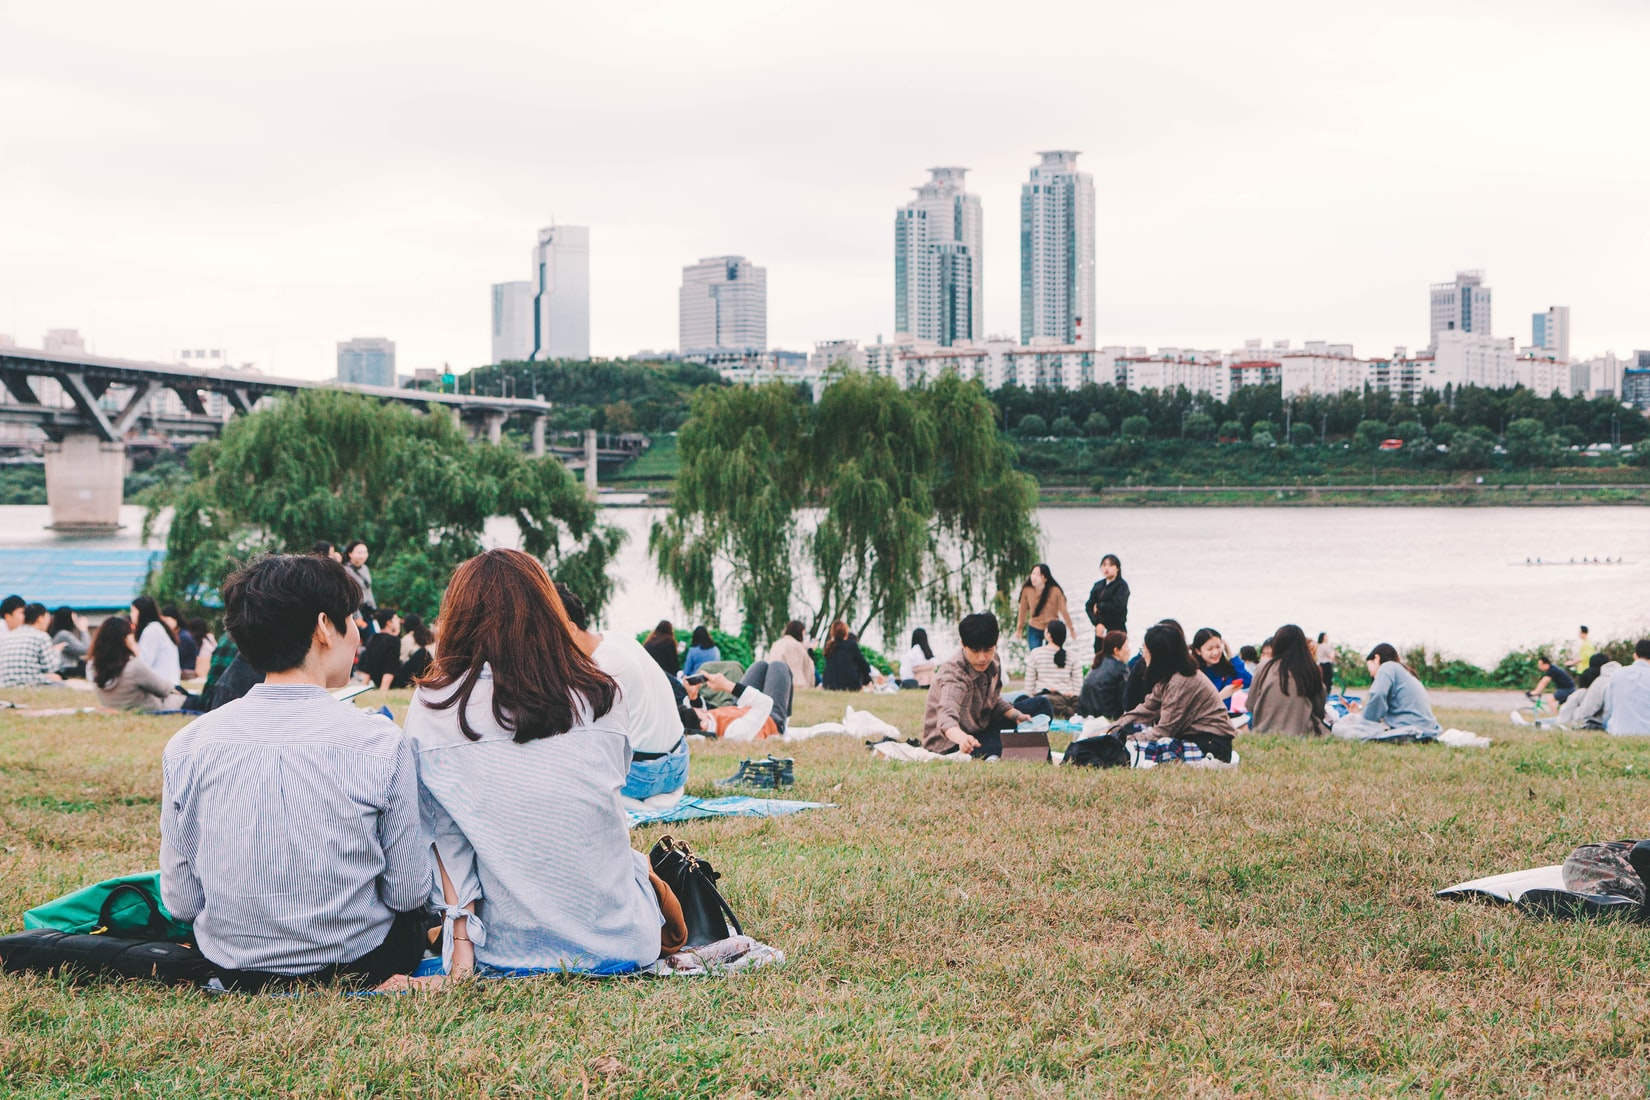
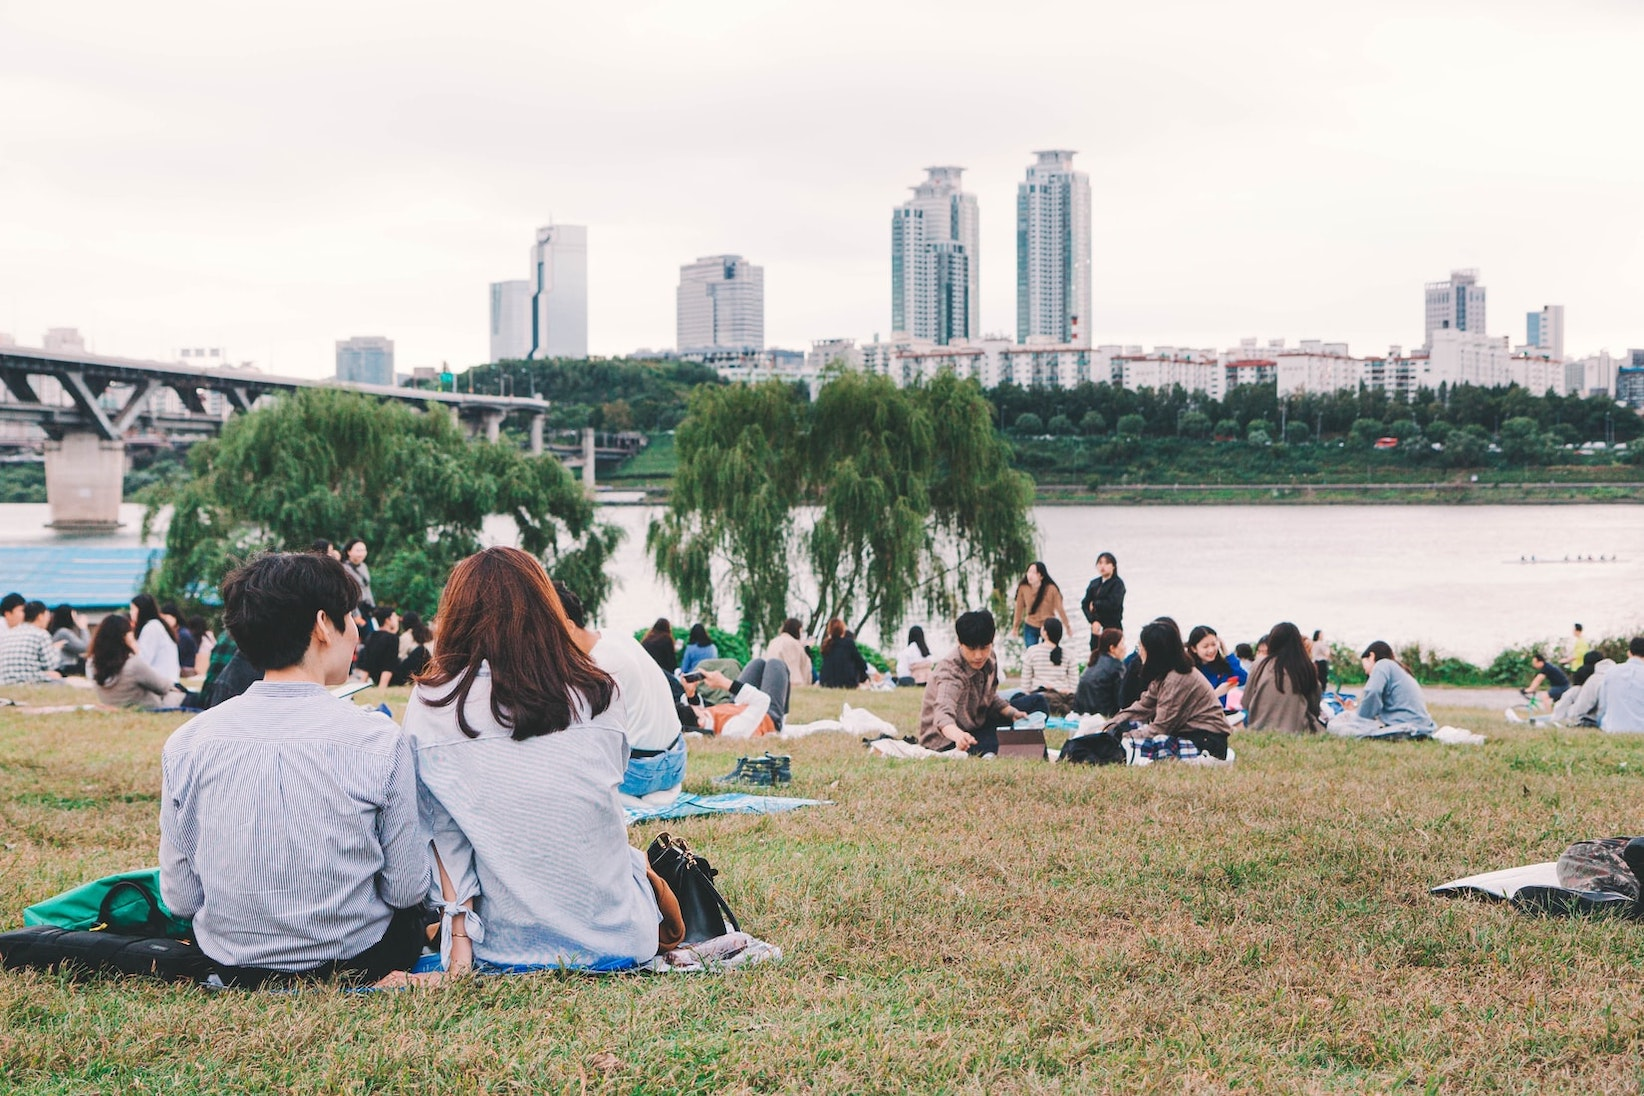
Summary

diff --git a/index.html b/index.html
@@ -2,8 +2,8 @@
 <html>
 <head>
 
-	
-	<!-- Global site tag (gtag.js) - Google Analytics -->
+
+		<!-- Global site tag (gtag.js) - Google Analytics -->
 <script async src="https://www.googletagmanager.com/gtag/js?id=UA-179030858-1"></script>
 <script>
   window.dataLayer = window.dataLayer || [];
@@ -12,16 +12,15 @@
 
   gtag('config', 'UA-179030858-1');
 </script>
-
     <meta charset="utf-8">
     <meta name="keywords" content="">
     <meta name="description" content="">
     <meta name="viewport" content="width=device-width, initial-scale=1.0, viewport-fit=cover">
-    <link rel="shortcut icon" type="image/png" href="favicon.png?9628">
+    <link rel="shortcut icon" type="image/png" href="favicon.png">
     
-	<link rel="stylesheet" type="text/css" href="./css/bootstrap.min.css?5026">
-	<link rel="stylesheet" type="text/css" href="style.css?289">
-	<link rel="stylesheet" type="text/css" href="./css/animate.min.css?7915">
+	<link rel="stylesheet" type="text/css" href="./css/bootstrap.min.css?4934">
+	<link rel="stylesheet" type="text/css" href="style.css?5756">
+	<link rel="stylesheet" type="text/css" href="./css/animate.min.css?6217">
 	<link rel="stylesheet" type="text/css" href="./css/font-awesome.min.css">
 	<link rel="stylesheet" type="text/css" href="./css/ionicons.min.css">
 	<link rel="stylesheet" type="text/css" href="./css/feather.min.css">
@@ -283,7 +282,7 @@
 		</div>
 		<div class="row row-bloc-音樂會-浪漫山林-margin-top">
 			<div class="col-md-6">
-				<img src="img/lazyload-ph.png" data-src="img/未命名-2-02.jpg" class="img-fluid mx-auto d-block img-margin-top lazyload" alt="截圖%202020 09-10%20上午11.59.25" />
+				<img src="img/lazyload-ph.png" data-src="img/音樂會流程9-29版-02.jpg" class="img-fluid mx-auto d-block img-margin-top lazyload" alt="截圖%202020 09-10%20上午11.59.25" />
 			</div>
 			<div class="col-md-6 align-self-center animated fadeInRight" data-appear-anim-style="fadeInRight">
 				<div class="row">
@@ -452,7 +451,7 @@
 			<div class="align-self-center col-md-6 col-lg-4">
 				<h5 class="mg-md text-lg-center h5-秋戀合興｜星夜野餐日-margin-top text-center tc-lapis-lazuli">
 					秋戀合興｜星夜野餐日
-				</h5><img src="img/lazyload-ph.png" data-src="img/picnic-1.jpeg" class="img-fluid mx-auto d-block lazyload" alt="placeholder image" />
+				</h5><img src="img/lazyload-ph.png" data-src="img/野餐餐.jpeg" class="img-fluid mx-auto d-block img-picnic-margin-top lazyload" alt="placeholder image" />
 				<h6 class="mg-md text-lg-center h6-margin-top text-center tc-gray-htmlcss-gray">
 					<span class="ion ion-location icon-sm"></span>&nbsp;橫山合興愛情車站<br>
 				</h6>
@@ -460,7 +459,7 @@
 			<div class="align-self-center col-md-6 col-lg-4 bloc-bloc-夜間活動-margin-top">
 				<h5 class="mg-md text-lg-center h5-秋藝關西｜河岸電影院-margin-top text-center tc-lapis-lazuli">
 					秋藝竹縣｜星空電影院
-				</h5><img src="img/lazyload-ph.png" data-src="img/滑雪去去拷貝.jpeg" class="img-fluid mx-auto d-block img-滑雪去去-margin-top lazyload" alt="placeholder image" />
+				</h5><img src="img/lazyload-ph.png" data-src="img/zhifei-zhou-XO4A1pWBEbE-unsplash.jpg" class="img-fluid mx-auto d-block img-滑雪去去-margin-top lazyload" alt="placeholder image" />
 				<div class="row">
 					<div class="col">
 						<div class="row">
@@ -493,7 +492,7 @@
 			<div class="align-self-center col-md-6 col-lg-4 bloc-1257-margin-top offset-lg-2">
 				<h5 class="mg-md text-lg-center text-center tc-lapis-lazuli h5-秋樂新豐｜親子滑雪趣-margin-top">
 					秋樂新豐｜親子滑雪趣
-				</h5><img src="img/lazyload-ph.png" data-src="img/滑雪去去.jpeg" class="img-fluid mx-auto d-block lazyload" alt="placeholder image" />
+				</h5><img src="img/lazyload-ph.png" data-src="img/叮噹.png" class="img-fluid mx-auto d-block lazyload" alt="placeholder image" />
 				<h6 class="mg-md text-lg-center h6-margin-top text-center tc-gray-htmlcss-gray">
 					<span class="ion ion-location icon-sm"></span>&nbsp;小叮噹科學主題樂園
 				</h6>
@@ -557,7 +556,7 @@
 	<div class="container ">
 		<div class="row row-bloc-13-margin-top">
 			<div class="order-md-0 col-md-12 col-lg-6 order-lg-1 offset-lg-1">
-				<img src="img/lazyload-ph.png" data-src="img/滑雪去去拷貝.jpeg" class="img-fluid mx-auto d-block lazyload" alt="placeholder image" />
+				<img src="img/lazyload-ph.png" data-src="img/zhifei-zhou-XO4A1pWBEbE-unsplash.jpg" class="img-fluid mx-auto d-block lazyload" alt="placeholder image" />
 			</div>
 			<div class="align-self-center offset-md-1 col-md-10 col-lg-4 col-sm-10 offset-sm-1 col-10 offset-1 animated fadeInLeft" data-appear-anim-style="fadeInLeft">
 				<h2 class="mg-md h2-秋藝關西｜河岸電影院-margin-top tc-lapis-lazuli">
@@ -726,7 +725,7 @@
 				</div>
 			</div>
 			<div class="col">
-				<img src="img/lazyload-ph.png" data-src="img/滑雪去去.jpeg" class="img-fluid mx-auto d-block lazyload" alt="滑雪 100" />
+				<img src="img/lazyload-ph.png" data-src="img/叮噹.png" class="img-fluid mx-auto d-block img-bloc-親子滑雪趣-style lazyload " alt="滑雪 100" />
 			</div>
 		</div>
 	</div>
@@ -1257,7 +1256,7 @@
 							</div>
 							<div id="accordion-14551-item-1" class="collapse show" aria-labelledby="heading1" data-parent="#accordion-14551">
 								<div class="card-body">
-									<div class="row row-bloc-交通-音樂會-margin-top ">
+									<div class="row row-bloc-交通-音樂會-margin-top">
 										<div class="offset-lg-0 col-lg-2 align-self-start">
 											<img src="img/lazyload-ph.png" data-src="img/自駕%20icon-100.jpg" class="img-fluid rounded-circle mx-auto d-block img-自駕-icon-100-style lazyload" alt="自駕%20icon 100" />
 											<p class="text-lg-center p-margin-top">
@@ -1728,9 +1727,9 @@
 <!-- Main container END -->
     
 
-<script src="./js/jquery-3.5.1.min.js?2634"></script>
-<script src="./js/bootstrap.bundle.min.js?87"></script>
-<script src="./js/blocs.min.js?2224"></script>
+<script src="./js/jquery-3.5.1.min.js?7229"></script>
+<script src="./js/bootstrap.bundle.min.js?4930"></script>
+<script src="./js/blocs.min.js?1285"></script>
 <script src="./js/lazysizes.min.js" defer></script>
 <!-- Additional JS END -->
 

diff --git a/style.css b/style.css
@@ -692,7 +692,7 @@ h1,h2,h3,h4,h5,h6,p,label,.btn,a{
 	margin-top:0px;
 }
 .h5-秋戀合興｜星夜野餐日-margin-top{
-	margin-top:6px;
+	margin-top:0px;
 }
 .h5-秋樂新豐｜親子滑雪趣-margin-top{
 	margin-top:39px;
@@ -701,7 +701,8 @@ h1,h2,h3,h4,h5,h6,p,label,.btn,a{
 	margin-top:38px;
 }
 .img-滑雪去去-margin-top{
-	margin-top:22px;
+	margin-top:0px;
+	height:204px;
 }
 .img-margin-bottom{
 	margin-bottom:31px;
@@ -711,6 +712,9 @@ h1,h2,h3,h4,h5,h6,p,label,.btn,a{
 .btn-商圈優惠資訊-margin-top{
 	margin-top:0px;
 	margin-left:32px;
+}
+.img-picnic-margin-top{
+	margin-top:0px;
 }
 
 /* = Colour
